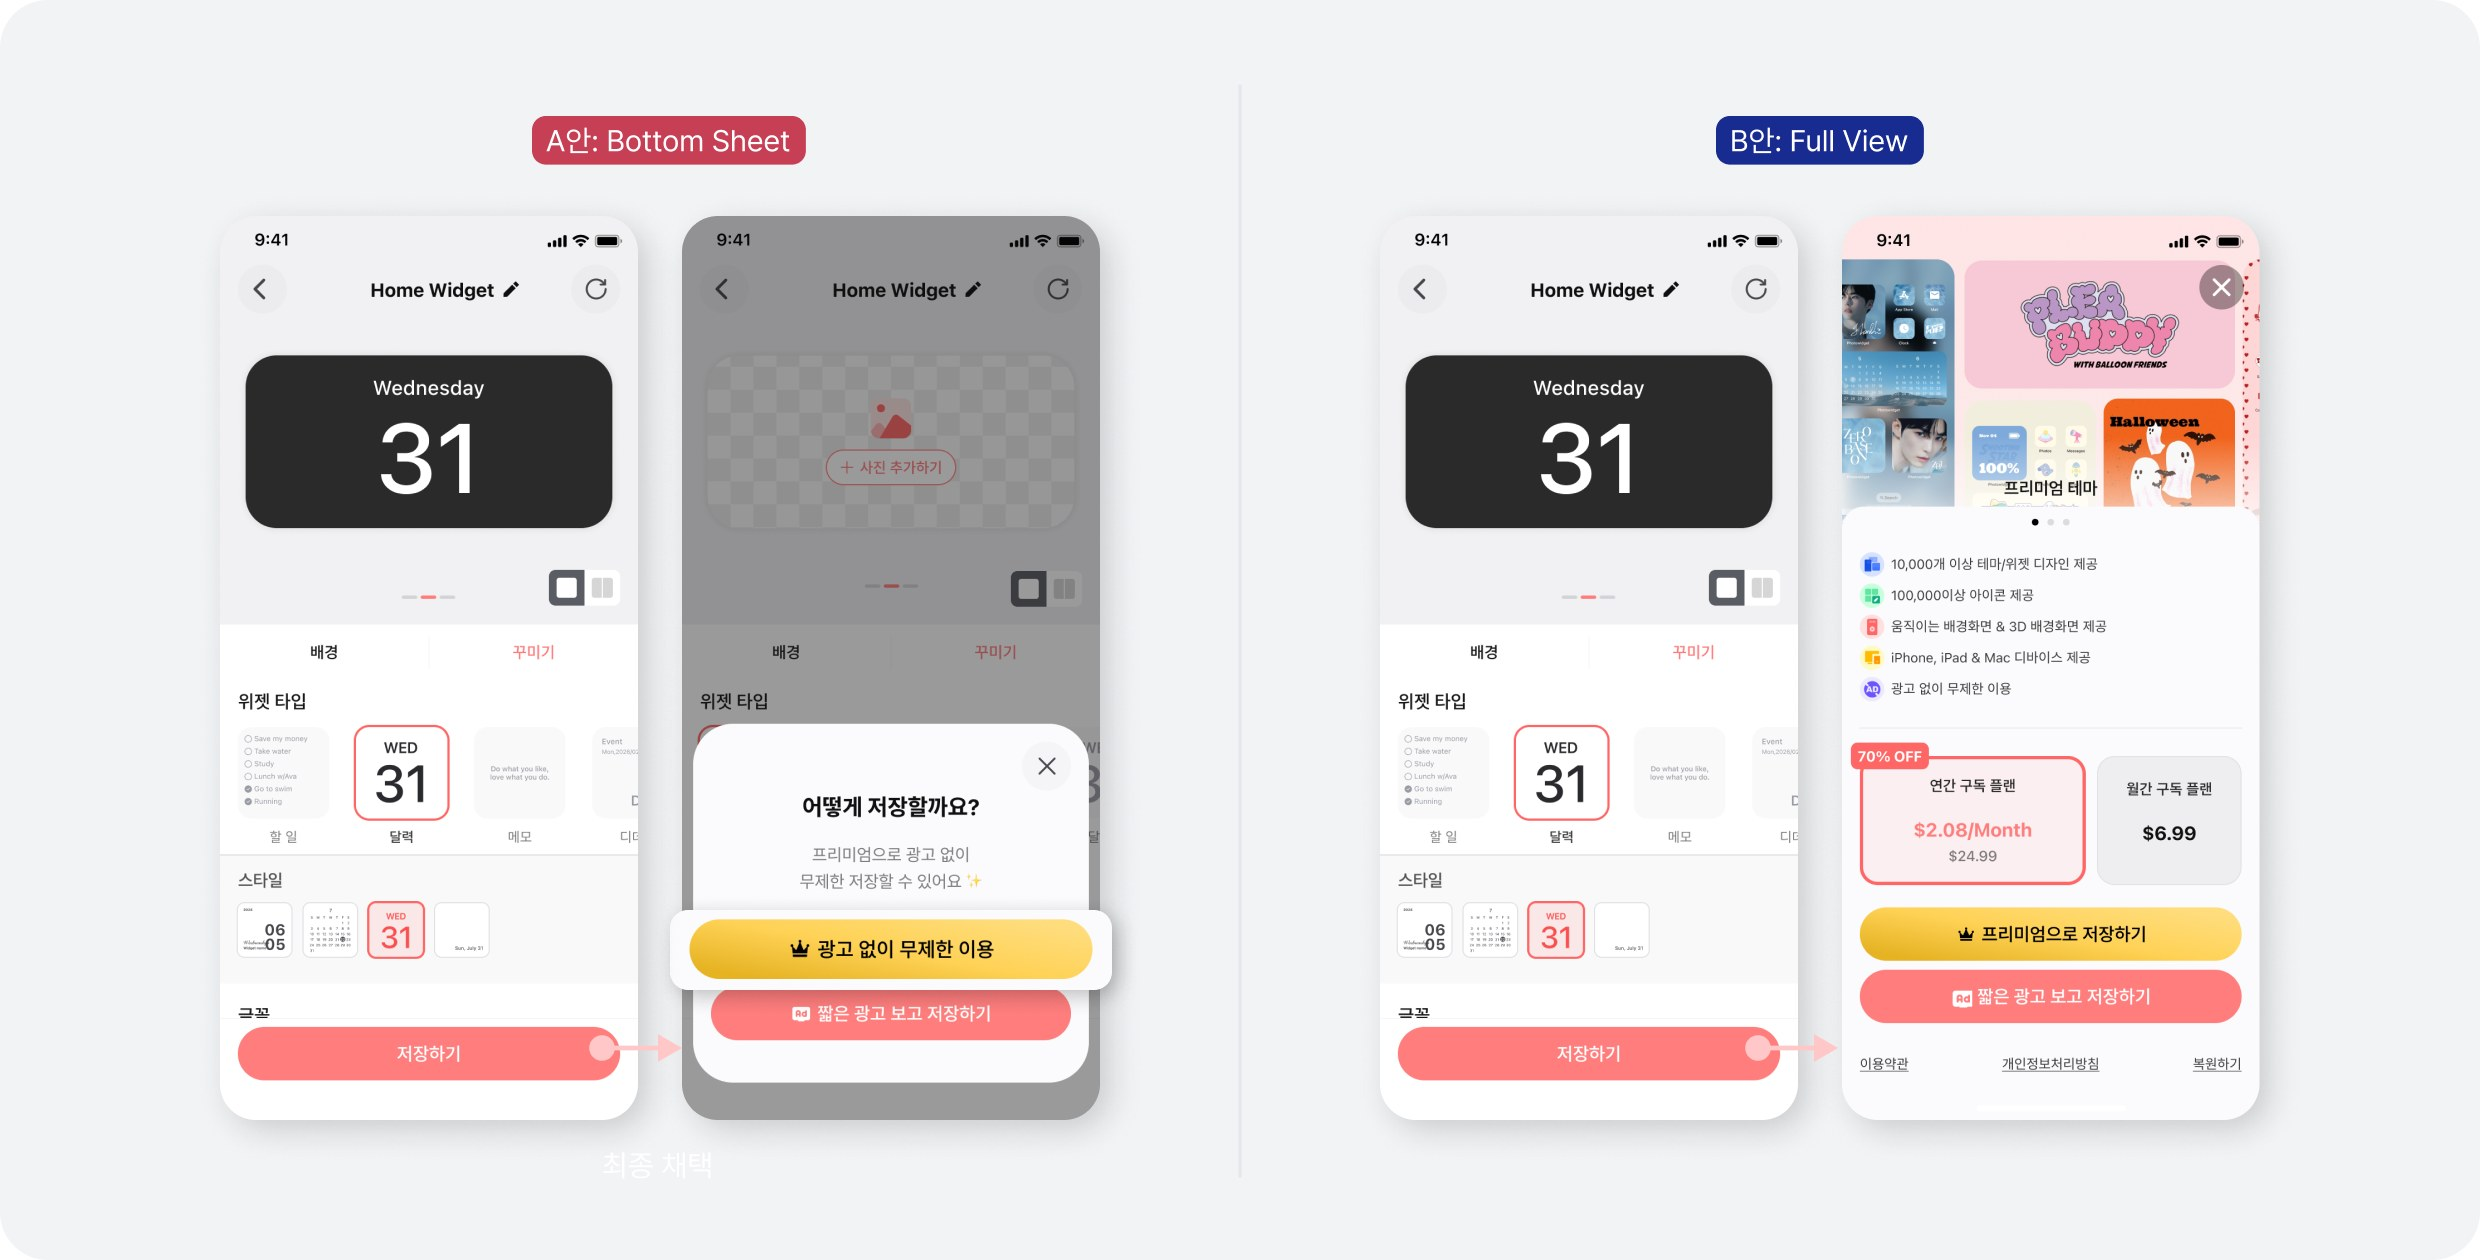
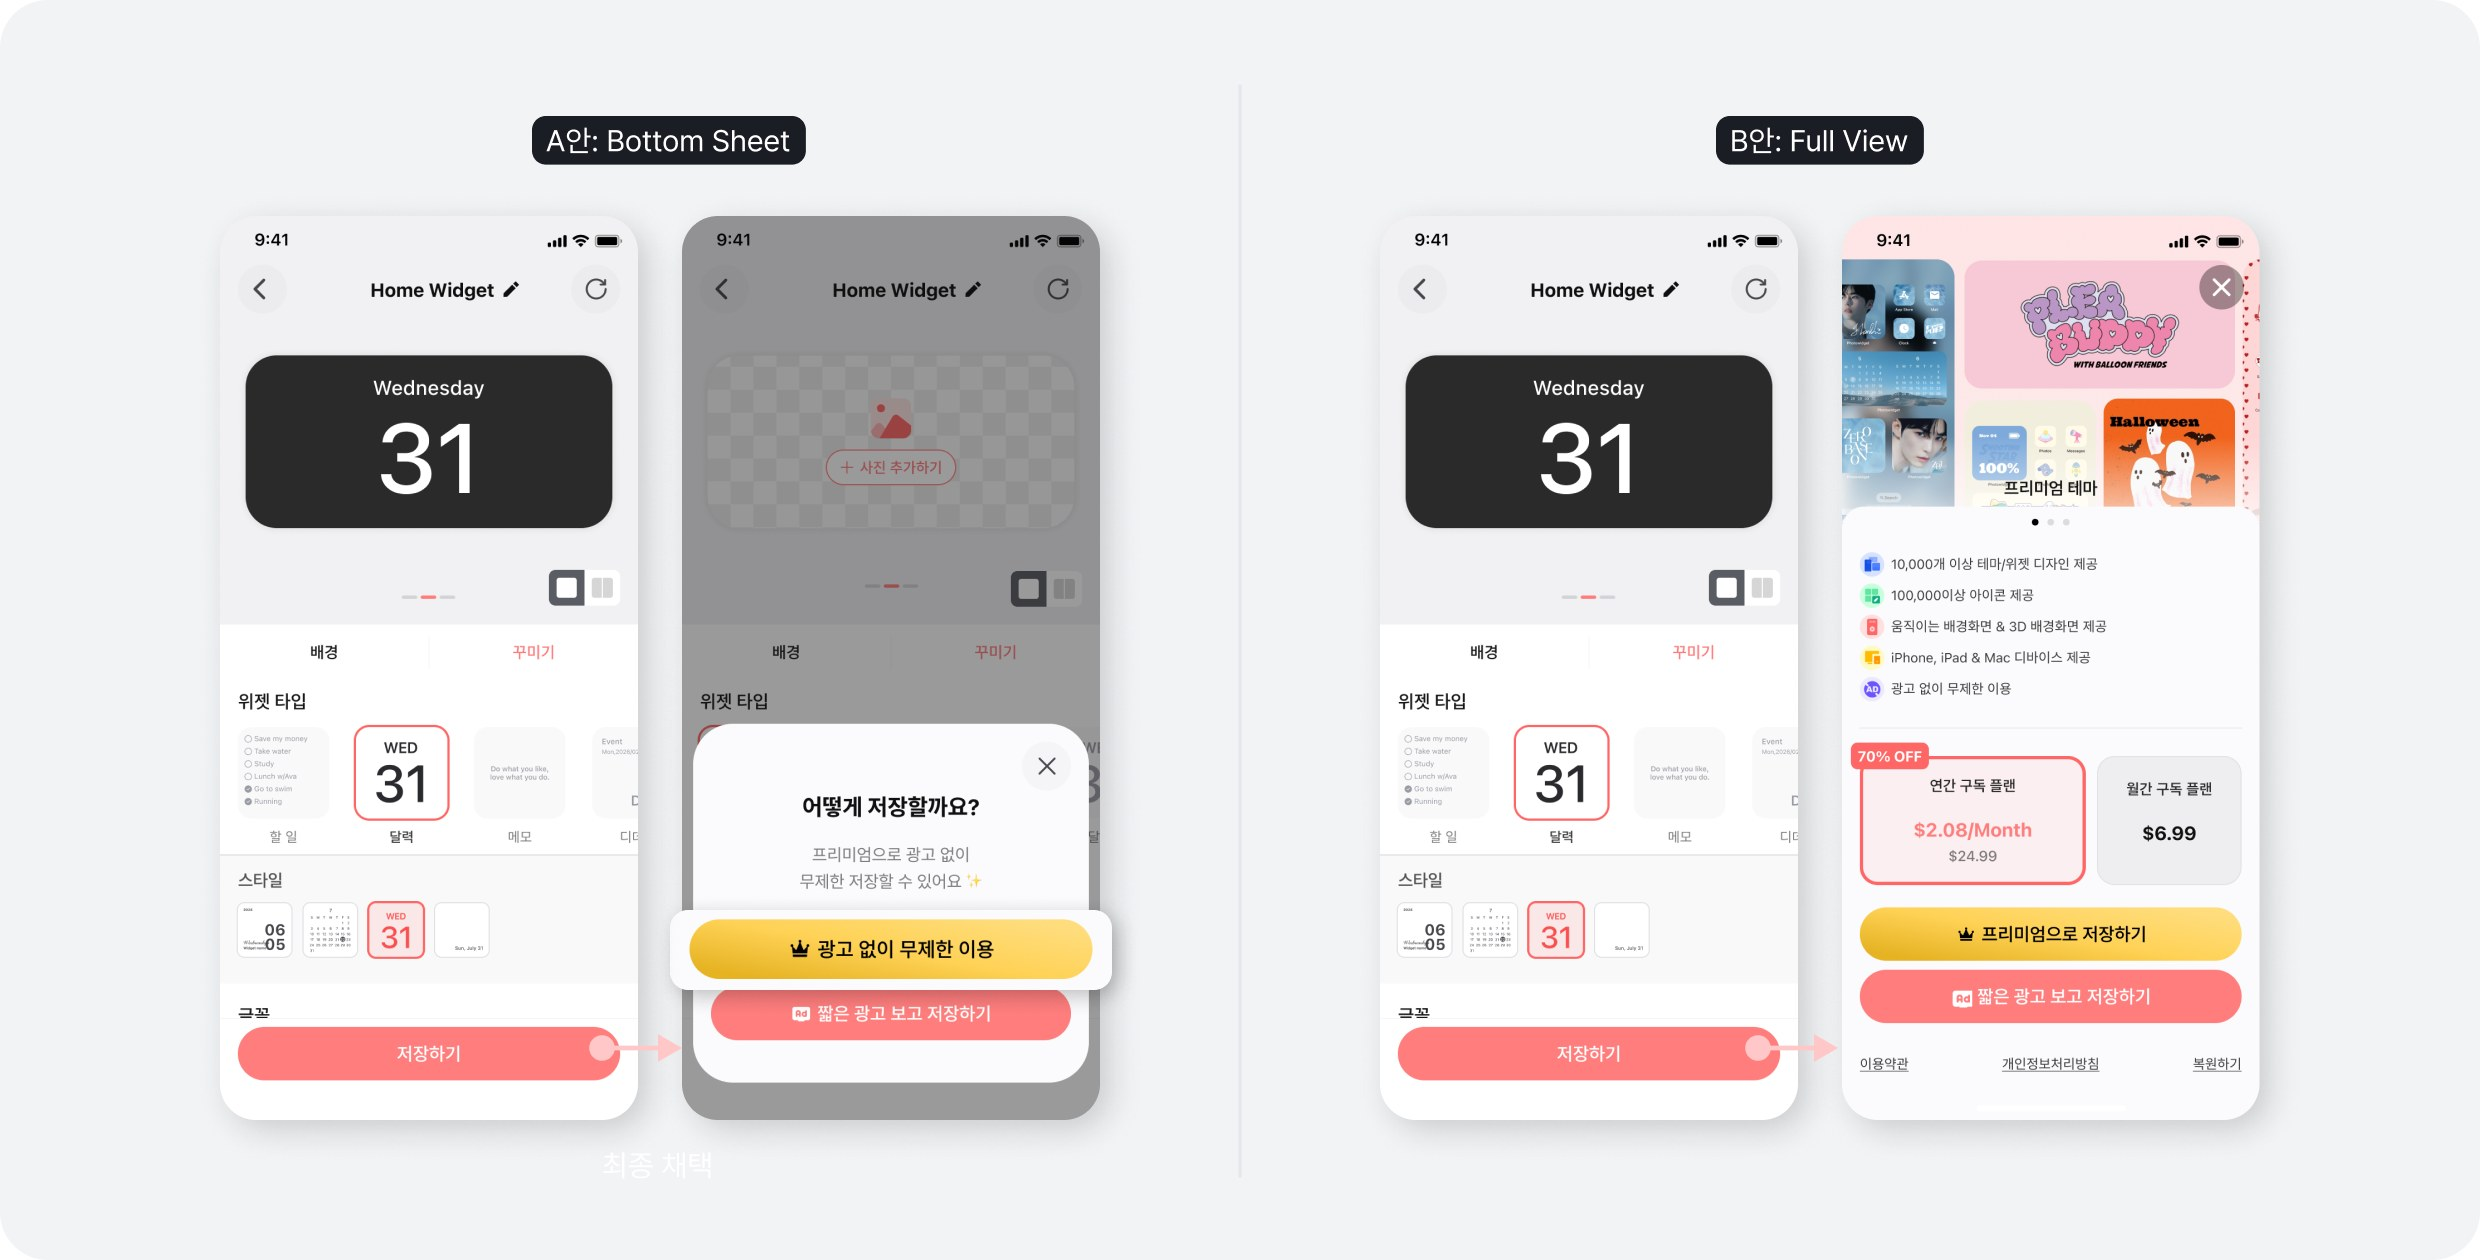
Sync save and widget-editor pages with latest Figma edits

Changed region(s): [[0.2173, 0.0929, 0.3415, 0.1548], [0.6831, 0.0929, 0.7762, 0.1548]]

diff --git a/docs/projects/photowidget-save-conversion/index.html b/docs/projects/photowidget-save-conversion/index.html
@@ -47,7 +47,7 @@
   </section>
 
   <section class="sec">
-    <img class="shot" src="/yoojin-portfolio/assets/save-conversion/hypothesis.jpg?v=4" width="1240" height="630" alt="위젯 편집 화면에서 저장하기를 누르면 바로 전면 광고가 뜨는 기존 저장 흐름" />
+    <img class="shot" src="/yoojin-portfolio/assets/save-conversion/hypothesis.jpg?v=5" width="1240" height="630" alt="위젯 편집 화면에서 저장하기를 누르면 바로 전면 광고가 뜨는 기존 저장 흐름" />
     <div class="sec-text text-col">
       <p class="caption">Problem</p>
       <h2>예고 없이 뜨는 광고가 저장 흐름을 방해한다</h2>
@@ -64,7 +64,7 @@
   </section>
 
   <section class="sec split split-tight">
-    <img class="shot" src="/yoojin-portfolio/assets/save-conversion/first-test.jpg?v=4" width="610" height="630" alt="위젯 편집 화면에 진입하자마자 광고·구독 저장 버튼을 보여준 첫 번째 테스트 화면" />
+    <img class="shot" src="/yoojin-portfolio/assets/save-conversion/first-test.jpg?v=5" width="610" height="630" alt="위젯 편집 화면에 진입하자마자 광고·구독 저장 버튼을 보여준 첫 번째 테스트 화면" />
     <div class="sec-text">
       <p class="caption">First Test</p>
       <h2>저장 시 액션을 미리 인지시킨다면?</h2>
@@ -76,7 +76,7 @@
   </section>
 
   <section class="sec split">
-    <img class="shot" src="/yoojin-portfolio/assets/save-conversion/second-test.jpg?v=4" width="610" height="630" alt="저장 버튼을 누른 뒤 바텀시트로 광고·구독 저장 방식을 보여준 두 번째 테스트 화면" />
+    <img class="shot" src="/yoojin-portfolio/assets/save-conversion/second-test.jpg?v=5" width="610" height="630" alt="저장 버튼을 누른 뒤 바텀시트로 광고·구독 저장 방식을 보여준 두 번째 테스트 화면" />
     <div class="sec-text">
       <p class="caption">Second Test</p>
       <h2>가장 저장을 완수하고 싶을 때 인지시킨다면?</h2>
@@ -88,12 +88,12 @@
   </section>
 
   <section class="sec">
-    <img class="shot" src="/yoojin-portfolio/assets/save-conversion/ab-test.jpg?v=4" width="1240" height="630" alt="A안: Bottom Sheet(최종 채택)와 B안: Full View 화면 비교" />
+    <img class="shot" src="/yoojin-portfolio/assets/save-conversion/ab-test.jpg?v=5" width="1240" height="630" alt="A안: Bottom Sheet(최종 채택)와 B안: Full View 화면 비교" />
     <div class="sec-text text-col">
       <p class="caption">A/B Test</p>
       <h2>다양한 구독 혜택 보여주기 vs 맥락에 맞는 혜택 보여주기</h2>
       <div class="body body-reg">
-        <p>구독 여부는 결국 어떤 혜택을 얻느냐에 달려 있어요. 포토위젯 구독에는 광고 없는 저장 외에도 여러 혜택이 있어,<br />저장 과정에서 ‘광고 없는 저장’ 하나를 강조할지 구독 혜택 전부를 보여줄지 고민했어요.<br />그래서 이를 A/B 테스트를 통해 판단하고자 했어요. A안은 바텀시트의 구독 버튼 문구를 '광고 없이 무제한 이용'으로 바꿔 광고 없는 저장을 강조했고, B안은 구독 화면을 띄워 혜택 전체를 보여줬어요. 그 결과 A안은 구독률이 6% 올랐고, B안은 변화가 없었어요.</p>
+        <p>구독 여부는 결국 어떤 혜택을 얻느냐에 달려 있어요. 포토위젯 구독에는 광고 없는 저장 외에도 여러 혜택이 있어,<br />저장 과정에서 ‘광고 없는 저장’ 하나를 강조할지 구독 혜택 전부를 보여줄지 고민했어요.<br />그래서 이를 A/B 테스트를 통해 판단하고자 했어요. A안은 바텀시트의 구독 버튼 문구를 '광고 없이 무제한 이용'으로 바꿔 위젯 저장 시 혜택을 강조했고, B안은 구독 화면을 띄워 혜택 전체를 보여줬어요. 그 결과 A안은 구독률이 6% 올랐고, B안은 변화가 없었어요.</p>
         <p class="sp27">이를 통해 사용자는 저장하는 순간에 필요한 혜택 하나를 보여줄 때 더 많이 구독한다는 걸 알 수 있었어요.<br />이로써 최종 A안을 저장 UX로 채택하게 되었어요.</p>
       </div>
     </div>

diff --git a/docs/projects/photowidget-widget-editor-v2/index.html b/docs/projects/photowidget-widget-editor-v2/index.html
@@ -49,10 +49,10 @@
     <div class="ph ph-short">Problem Definition 이미지 플레이스홀더</div>
     <div class="sec-text text-col">
       <p class="caption">Process</p>
-      <h2>정성적 데이터와 POC를 기반으로 설계하기</h2>
+      <h2>개발 POC를 기반으로 단계별 설계하기</h2>
       <div class="body body-reg">
-        <p>시작에 앞서 개편 전략이 필요했어요. 왜냐하면 참고할 정량적 데이터가 부족했고, 방대한 양의 마이그레이션을 해야하기 때문에 V1과의 호환성을 최우선으로 해야했어요. 그래서 이러한 병목을 고려해 아래와 같은 방식으로 프로젝트를 진행하고자 했어요.</p>
-        <p class="sp18 semi-line">1. 신규 입사 시 작성하는 ‘기능 문제점 분석 자료’와 CS를 참고해 인사이트를 도출하고</p>
+        <p>시작에 앞서 개편 전략이 필요했어요. 왜냐하면 개발-디자인 모두 히스토리가 없는 상태라 V1의 개발 구조를 알 수 없는 상황에서 방대한 양의 마이그레이션을 해야하기 때문에 V1과의 호환성을 최우선으로 해야했어요. 그래서 이러한 병목을 고려해 아래와 같은 방식으로 프로젝트를 진행하고자 했어요.</p>
+        <p class="sp18 semi-line">1. 사내 기본 문서인 ‘기능 문제점 분석 자료’와 CS를 바탕으로 누적된 문제점을 찾아내고</p>
         <p class="semi-line">2. 이후 설계한 화면을 POC 하며 V1과의 호환성을 확인하고 개선해요.</p>
       </div>
     </div>
@@ -103,7 +103,7 @@
   <section class="sec">
     <div class="ph ph-wide">Solution 이미지 플레이스홀더</div>
     <div class="sec-text text-col">
-      <p class="caption">Solution</p>
+      <p class="caption">Improvement</p>
       <h2>레이어 개념을 도입한 위젯 모듈 구조</h2>
       <div class="body body-reg">
         <p>앞서 개선한 화면을 POC 하는 과정에서 ‘위젯 디자인 변경 시 이미 설정한 배경까지 함께 바뀌는 문제’가 있었어요.</p>
